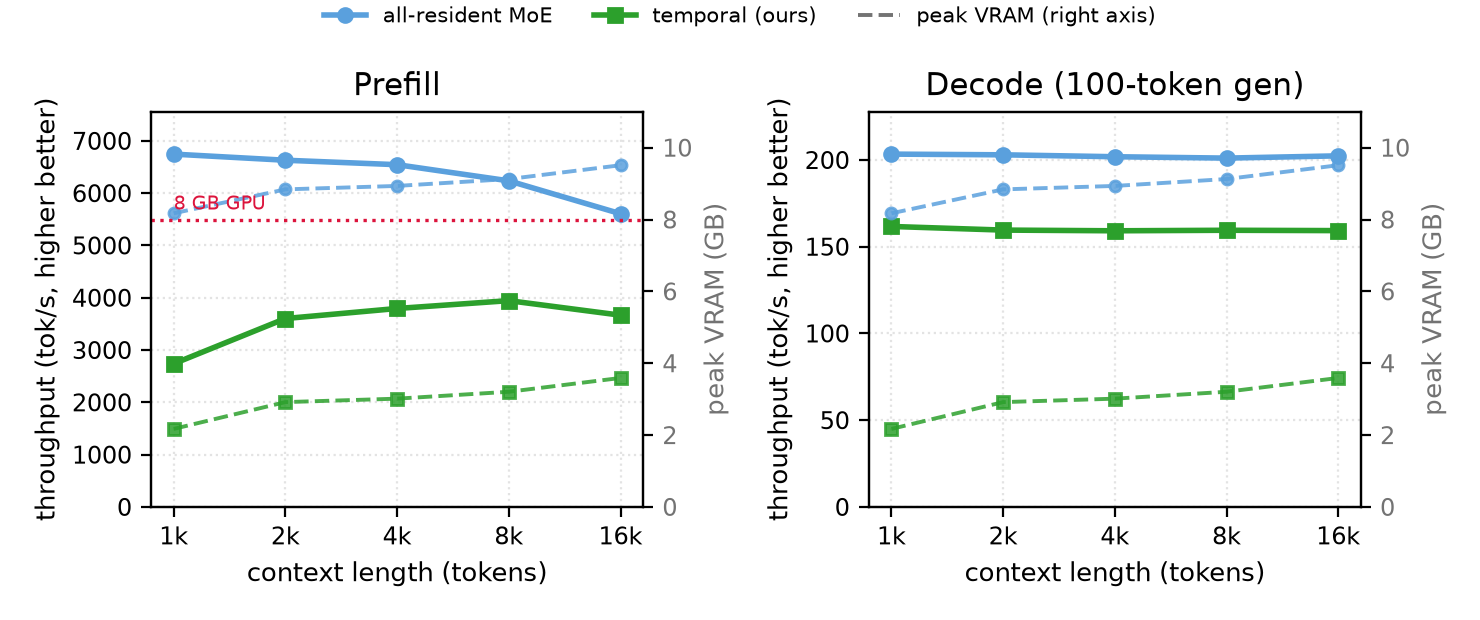
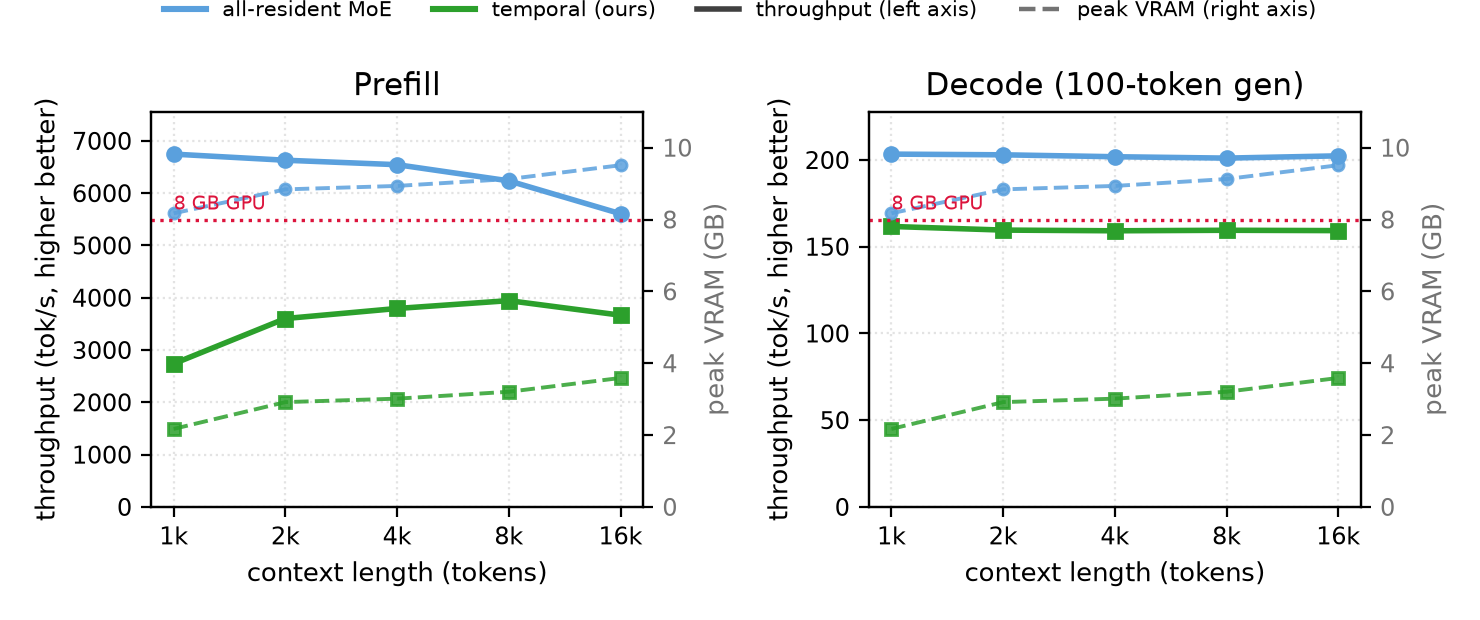
serving figure: 8GB line on both panels + legend separates metric (solid=throughput/dashed=VRAM) from method (color)

Changed region(s): [[0.0932, 0.0, 0.9014, 0.0613], [0.5905, 0.3065, 0.9014, 0.3677]]

diff --git a/analysis/plots/plot_serving_context.py b/analysis/plots/plot_serving_context.py
@@ -44,12 +44,15 @@ def panel(ax, tps_A, tps_C, title, show_8gb=True):
 
 fig, (axp, axd) = plt.subplots(1, 2, figsize=(7.4, 3.1))
 panel(axp, A_pp, C_pp, "Prefill")
-panel(axd, A_tg, C_tg, "Decode (100-token gen)", show_8gb=False)
-# one shared legend: solid=throughput lines, plus dashed=VRAM note
-h, l = axp.get_legend_handles_labels()
+panel(axd, A_tg, C_tg, "Decode (100-token gen)")
+# legend: method = color, metric = linestyle (kept separate so the dotted 8 GB line reads as VRAM)
 from matplotlib.lines import Line2D
-h += [Line2D([0],[0], color="0.45", ls="--", lw=1.4)]; l += ["peak VRAM (right axis)"]
-fig.legend(h, l, ncol=3, loc="upper center", frameon=False, bbox_to_anchor=(0.5, 1.02))
+handles = [Line2D([0],[0], color=CEIL, lw=2.2),
+           Line2D([0],[0], color=DEPL, lw=2.2),
+           Line2D([0],[0], color="0.25", lw=2.0, ls="-"),
+           Line2D([0],[0], color="0.45", lw=1.6, ls="--")]
+labels  = ["all-resident MoE", "temporal (ours)", "throughput (left axis)", "peak VRAM (right axis)"]
+fig.legend(handles, labels, ncol=4, loc="upper center", frameon=False, bbox_to_anchor=(0.5, 1.03))
 fig.tight_layout(rect=[0,0,1,0.93])
 out = f"{OUT}/serving_context_sweep_nocaption.png"
 fig.savefig(out, dpi=200); print("wrote", out)
